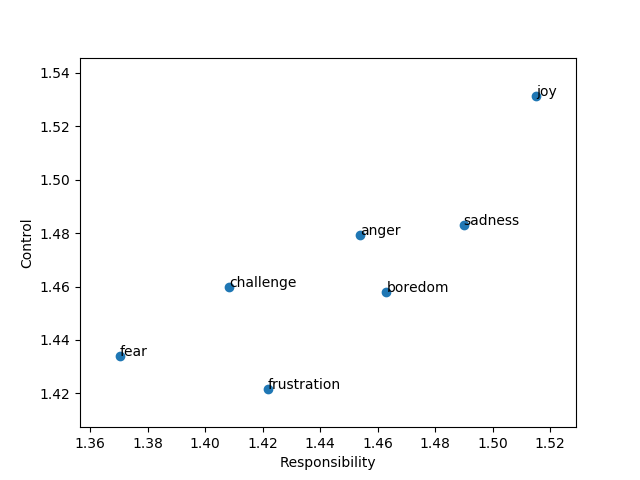
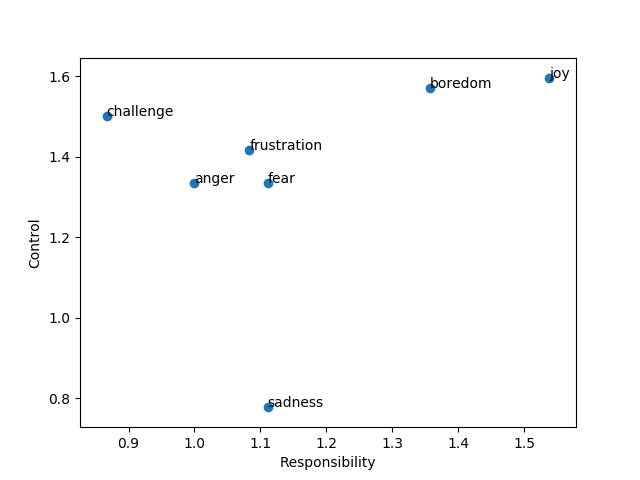
new cleaned data

diff --git a/graphing_helpers.py b/graphing_helpers.py
@@ -26,7 +26,7 @@ def plot_ellsworth_figs(data):
     
     for var in em_plot:
         for em in em_plot[var]:
-            em_plot[var][em] = statistics.median(em_plot[var][em])
+            em_plot[var][em] = statistics.mode(em_plot[var][em])
 
     fig, ax = plt.subplots()
     ax.scatter(list(em_plot["pleasantness"].values()), list(em_plot["anticipated_effort"].values()))
@@ -34,7 +34,7 @@ def plot_ellsworth_figs(data):
     ax.set_ylabel("Effort")
     for i, txt in enumerate(emotions):
         ax.annotate(txt, ( list(em_plot["pleasantness"].values())[i], list(em_plot["anticipated_effort"].values())[i]))
-    plt.savefig("results/figs/effort_vs_pleasantness.png")
+    plt.savefig("results/figs/(mode)effort_vs_pleasantness.png")
 
     fig, ax = plt.subplots()
     ax.scatter(list(em_plot["responsibility"].values()), list(em_plot["control"].values()))
@@ -42,7 +42,7 @@ def plot_ellsworth_figs(data):
     ax.set_ylabel("Control")
     for i, txt in enumerate(emotions):
         ax.annotate(txt, ( list(em_plot["responsibility"].values())[i], list(em_plot["control"].values())[i]))
-    plt.savefig("results/figs/control_vs_res.png")
+    plt.savefig("results/figs/(mode)control_vs_res.png")
 
     fig, ax = plt.subplots()
     ax.scatter(list(em_plot["attention"].values()), list(em_plot["certainty"].values()))
@@ -50,7 +50,7 @@ def plot_ellsworth_figs(data):
     ax.set_ylabel("Certainty")
     for i, txt in enumerate(emotions):
         ax.annotate(txt, ( list(em_plot["attention"].values())[i], list(em_plot["certainty"].values())[i]))
-    plt.savefig("results/figs/certainty_vs_attention.png")
+    plt.savefig("results/figs/(mode)certainty_vs_attention.png")
 
 
 def plot_confusion_matrix(cm, classes, title, normalize=False, cmap=plt.cm.Blues):

diff --git a/test.py b/test.py
@@ -4,7 +4,7 @@ import numpy as np
 
 from enums.global_enums import Models, NGrams
 from enums.clark_enums import AV2EClassifiers
-# from graphing_helpers import plot_ellsworth_figs
+from graphing_helpers import plot_ellsworth_figs
 from models.av_model import AVModel
 from models.av_to_emotion_model import AVtoEmotionModel
 from models.clark_model import ClarkModel
@@ -37,7 +37,9 @@ def n_fold_test(data_list, num_folds, model_type, compute_matrix=False, **kwargs
     np.random.shuffle(np_data)
     splits = np.array_split(np_data, num_folds)
 
-    # plot_ellsworth_figs(np_data)
+    plot_ellsworth_figs(np_data)
+
+    return
 
     if model_type == Models.CLARK:
         __test_CLARK_model(splits, kwargs, num_folds, compute_matrix)

diff --git a/main.py b/main.py
@@ -8,4 +8,4 @@ newest_file = "data/combined_091319.json"
 # n_fold_test([newest_file], 10, Models.APPRAISAL_VARIABLES_TO_EMOTION)
 # n_fold_test([newest_file], 10, Models.APPRAISAL_VARIABLES)
 # n_fold_test([newest_file], 10, Models.EMOTION)
-n_fold_test([newest_file], 10, Models.CLARK)
+n_fold_test([newest_file], 1, Models.CLARK)
